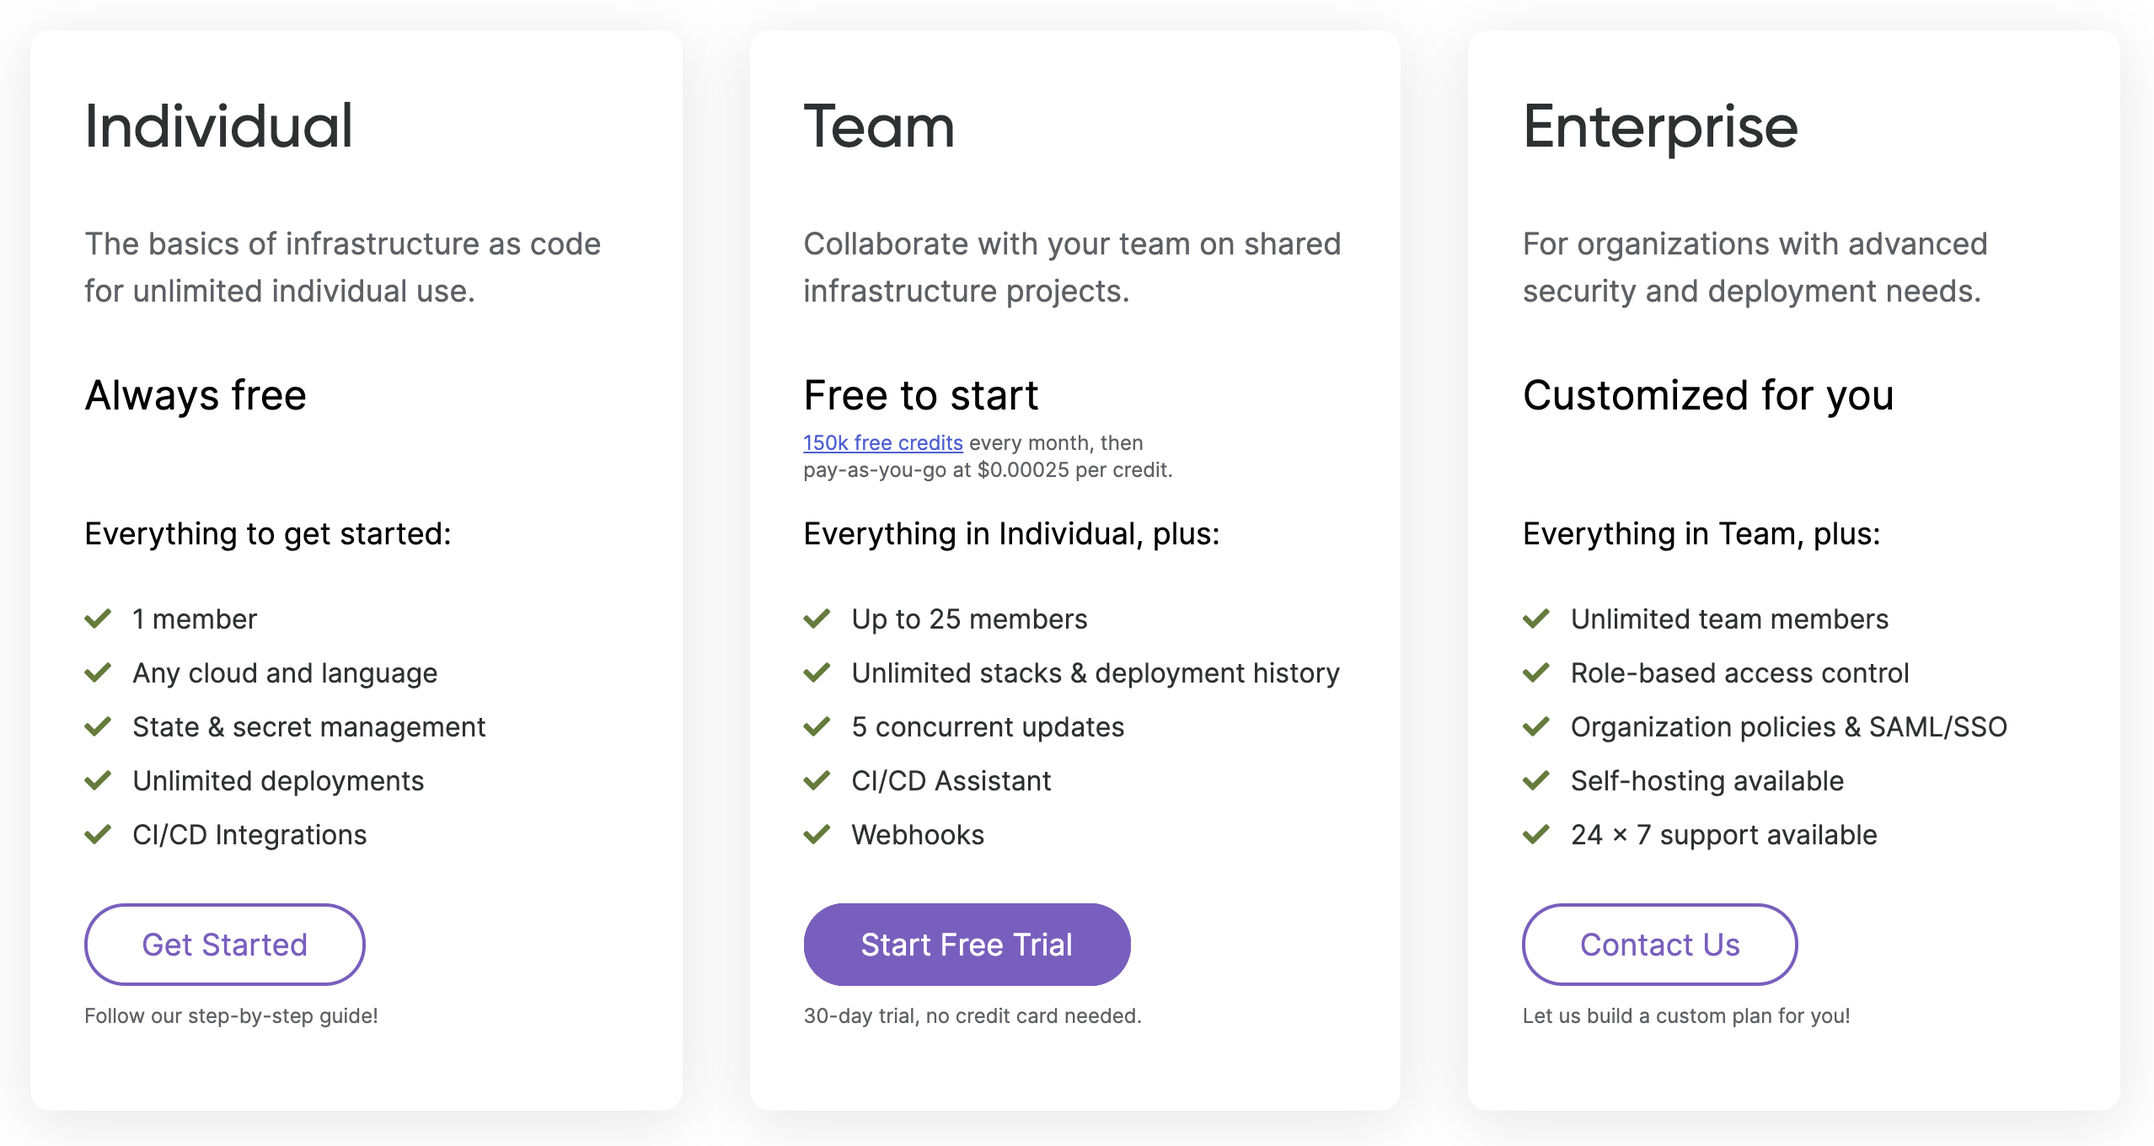
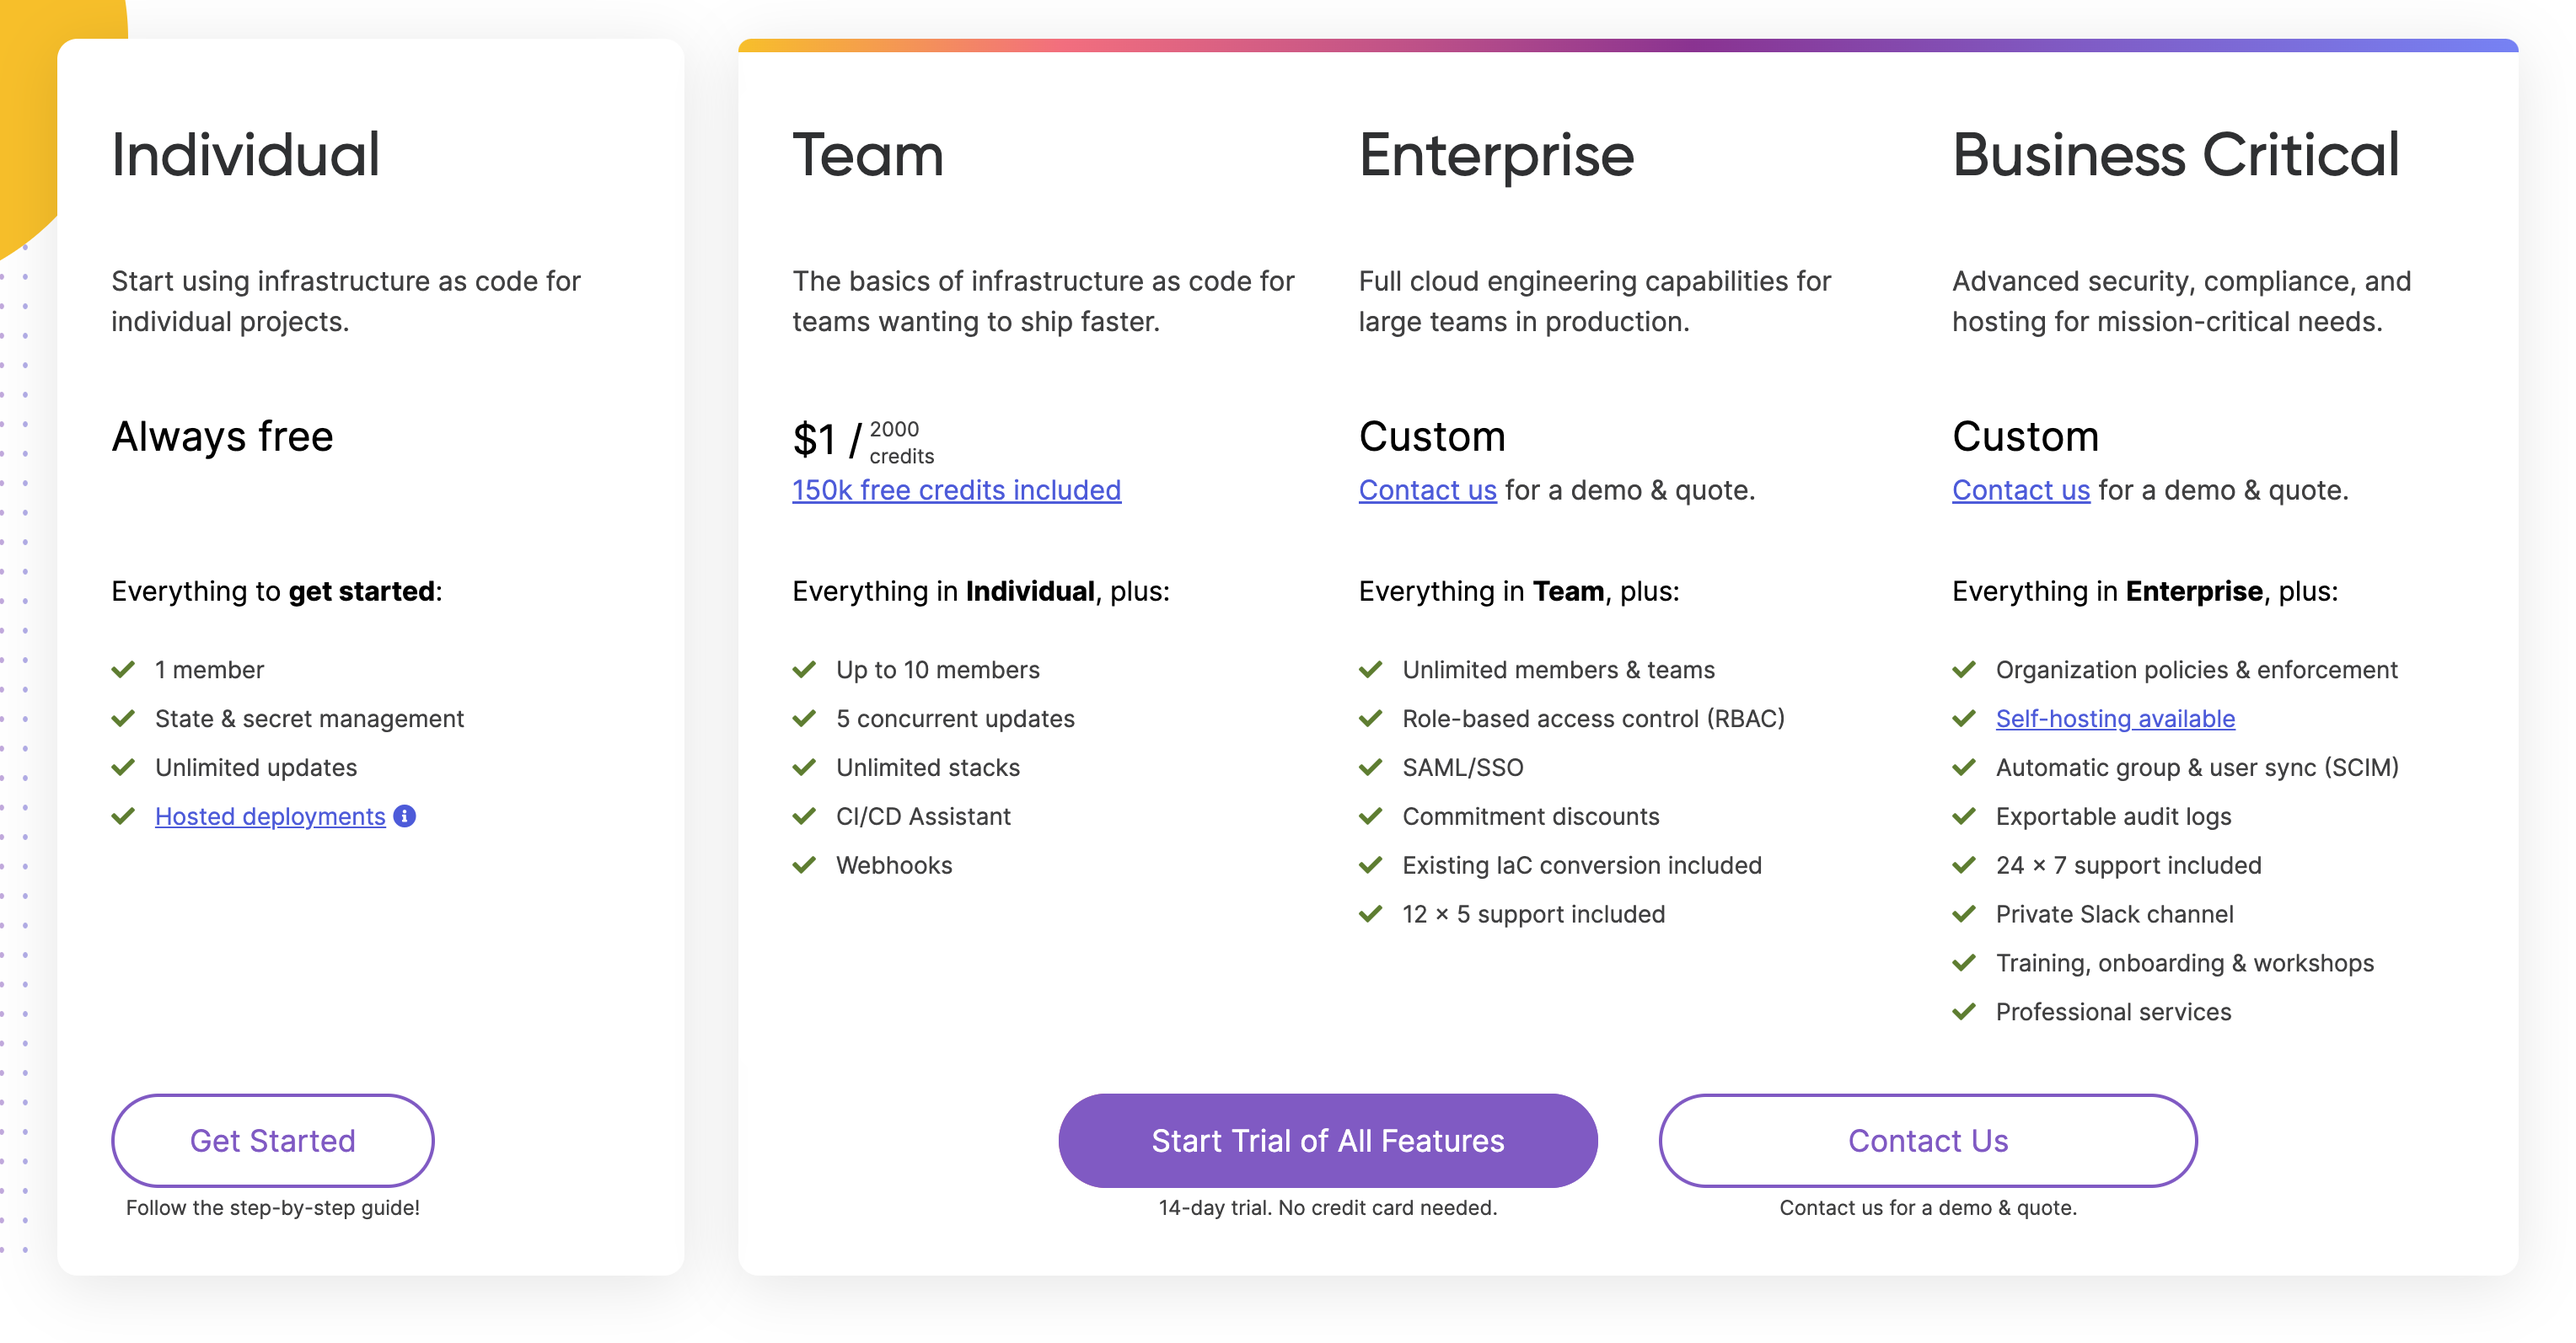
Update copy (#84)
* Update copy

* Update some more copy

* Update image

* few clean ups

* Update index.md

* Update themes/default/content/blog/announcing-new-usage-based-pricing-for-your-whole-team/index.md

* Update image

diff --git a/themes/default/layouts/page/pricing.html b/themes/default/layouts/page/pricing.html
@@ -146,10 +146,10 @@
 
                                     <div class="h-20">
                                         <div class="text-black text-2xl lg:text-xl xl:text-2xl flex items-center lg:whitespace-nowrap">
-                                            150k free credits /
-                                            <div class="m-0 text-xs mt-1 flex flex-col pl-1"><span>every</span><span>month</span></div>
+                                            $1 /
+                                            <div class="m-0 text-xs mt-1 flex flex-col pl-1"><span>2000</span><span>credits</span></div>
                                         </div>
-                                        <p class="m-0">Then <a class="underline" href="#faq-pricing">$0.00025/credit</a></p>
+                                        <p class="m-0"><a class="underline" href="#faq-pricing">150k free credits included</a></p>
                                     </div>
 
                                     <div class="flex-grow">
@@ -158,7 +158,7 @@
                                             <li>
                                                 <span>
                                                     <i class="fa fa-check pricing-checkmark mr-2"></i>
-                                                    <span>Up to 15 members</span>
+                                                    <span>Up to 10 members</span>
                                                 </span>
                                             </li>
                                             <li>
@@ -232,6 +232,12 @@
                                                 <span>
                                                     <i class="fa fa-check pricing-checkmark mr-2"></i>
                                                     <span>Commitment discounts</span>
+                                                </span>
+                                            </li>
+                                            <li>
+                                                <span>
+                                                    <i class="fa fa-check pricing-checkmark mr-2"></i>
+                                                    <span>Existing IaC conversion included</span>
                                                 </span>
                                             </li>
                                             <li>
@@ -413,7 +419,7 @@
 
                 <div class="accordion-item-body-no-animation text-base">
                     <p>
-                        A Pulumi Credit is the price for managing one resource for one hour. If using the Team Edition, each credit costs $0.00025. For billing purposes, we count
+                        A Pulumi Credit is the price for managing one resource for one hour. If using the Team Edition, each credit costs $0.0005. For billing purposes, we count
                         any resource that's declared in a Pulumi program. This includes
                         <a class="underline" href="{{ relref . " /docs/intro/concepts/resources#custom-resources" }}">provider resources</a> (e.g., an Amazon S3 bucket),
                         <a class="underline" href="{{ relref . " /docs/intro/concepts/resources#components" }}">component resources</a>
@@ -439,15 +445,15 @@
                     <p>
                         Hourly usage is measured in the number of Pulumi Credits, and you are billed one Pulumi Credit to manage one
                         <a class="underline" href="{{ relref . " /docs/intro/concepts/resources" }}">resource</a>
-                        for one hour. Each credit costs $0.00025 USD.
+                        for one hour. Each credit costs $0.0005 USD.
                     </p>
                     <p>
                         Each month you get 150,000 free Pulumi Credits (roughly 200 resources), so you only pay for the credits used beyond that amount in a given month. Free
                         credits do not roll over from month to month.
                     </p>
                     <p>
-                        Example: If you manage 625 resources with Pulumi every month, you will use 450,000 Pulumi Credits each month. Your monthly bill would be $75 USD = (450,000
-                        total credits - 150,000 free credits) * $0.00025.
+                        Example: If you manage 625 resources with Pulumi every month, you will use 450,000 Pulumi Credits each month. Your monthly bill would be $150 USD = (450,000
+                        total credits - 150,000 free credits) * $0.0005.
                     </p>
 
                     <img class="mt-16" src="/images/pricing/team-edition-cost.png" />
@@ -489,7 +495,7 @@
                         >
                         <ul>
                             <li>Estimated resources: 9</li>
-                            <li>Estimated monthly cost without applying free credits: $1.64 USD / 6,570 credits</li>
+                            <li>Estimated monthly cost without applying free credits: $3.28 USD / 6,570 credits</li>
                             <li>
                                 This scenario is a stack with an Amazon API Gateway, an AWS Lambda event handler, and associated IAM roles. View the
                                 <a class="underline" href="https://github.com/pulumi/examples/tree/master/aws-ts-apigatewayv2-http-api">code</a> for this scenario here.
@@ -500,7 +506,7 @@
                         <a class="underline" href="https://github.com/pulumi/examples/tree/master/aws-py-eks"><b>Amazon EKS running in a VPC</b></a>
                         <ul>
                             <li>Estimated resources: 20</li>
-                            <li>Estimated monthly cost without applying free credits: $3.65 USD / 14,600 credits</li>
+                            <li>Estimated monthly cost without applying free credits: $7.30 USD / 14,600 credits</li>
                             <li>
                                 This scenario is a stack with an Amazon VPC (including subnets, internet gateway, security groups, and route table), Amazon EKS cluster and node
                                 group, and associated IAM roles. View the <a class="underline" href="https://github.com/pulumi/examples/tree/master/aws-py-eks">code</a> for this
@@ -516,7 +522,7 @@
                         >
                         <ul>
                             <li>Estimated resources: 24</li>
-                            <li>Estimated monthly cost without applying free credits: $4.38 USD / 17,520 credits</li>
+                            <li>Estimated monthly cost without applying free credits: $8.76 USD / 17,520 credits</li>
                             <li>
                                 This scenario is a stack with an Amazon VPC (including subnets, security groups, and route table associations), Amazon ECS (including cluster and
                                 service, load balancer resources, and IAM resources), and Amazon RDS (including RDS instance and subnet group). Each group of resources (VPC, ECS,

diff --git a/themes/default/content/blog/announcing-new-usage-based-pricing-for-your-whole-team/index.md b/themes/default/content/blog/announcing-new-usage-based-pricing-for-your-whole-team/index.md
@@ -15,7 +15,7 @@ Today we are launching **Pulumi Team Edition**, a new way for teams to adopt and
 
 <!--more-->
 
-These new offerings replace the previous Pulumi Team Starter, Team Pro and Enterprise editions, which were priced based on the number of users who had access to deploy and manage infrastructure.  As we’ve worked with many customers to tackle their cloud modernization initiatives, we’ve heard consistently that teams would like to use infrastructure as code broadly across the organization.  This is a core goal of Cloud Engineering, which empowers every developer and infrastructure practitioner in the team to be hands-on with cloud infrastructure.  For some users, this might be every day, for others, it might be a couple times a month, but giving everyone in the organization access to manage their cloud infrastructure empowers organizations to move more quickly and collaborate more effectively.  This new pricing model was designed to make it easy to give Pulumi to the entire team.  Pulumi Team Edition supports up to 25 users, and Pulumi Enterprise Edition supports unlimited users.
+These new offerings replace the previous Pulumi Team Starter, Team Pro and Enterprise editions, which were priced based on the number of users who had access to deploy and manage infrastructure.  As we’ve worked with many customers to tackle their cloud modernization initiatives, we’ve heard consistently that teams would like to use infrastructure as code broadly across the organization.  This is a core goal of Cloud Engineering, which empowers every developer and infrastructure practitioner in the team to be hands-on with cloud infrastructure.  For some users, this might be every day, for others, it might be a couple times a month, but giving everyone in the organization access to manage their cloud infrastructure empowers organizations to move more quickly and collaborate more effectively.  This new pricing model was designed to make it easy to give Pulumi to the entire team.  Pulumi Team Edition supports up to 10 users, and Pulumi Enterprise Edition supports unlimited users.
 
 Pricing based on the number of resources under management means that price scales naturally with the cloud infrastructure complexity being tamed, and aligns well with how your infrastructure is purchased.  Pricing is based on Pulumi Credits, and a Pulumi Credit is one [cloud resource](/docs/intro/concepts/resources/) under management for one hour.
 
@@ -24,7 +24,7 @@ New customers can sign up for Pulumi Team Edition starting today.  Existing cust
 The net result is three Pulumi editions available now:
 
 * **Individual Edition**: our Community Edition is being rebranded but remains unchanged, and is free for unlimited individual use.
-* **Team Edition**: up to 25 members can collaborate on projects with unlimited deployments, unlimited stacks and unlimited update history. This plan includes 150k free Pulumi Credits per month, letting you manage up to 200 cloud resources for free every month. After that, additional Pulumi Credits cost only $0.00025 each.
+* **Team Edition**: up to 10 members can collaborate on projects with unlimited deployments, unlimited stacks and unlimited update history. This plan includes 150k free Pulumi Credits per month, letting you manage up to 200 cloud resources for free every month. After that, additional Pulumi Credits cost only $1 for every 2000 Credits.
 * **Enterprise Edition**: for large organizations that need unlimited users, unlimited teams, Role-Based Access Control, SAML/SSO, policy enforcement, audit logging, and 12x5 or 24x7 support for their production deployments.
 
 Full details of the new editions are available on our [pricing page](/pricing/).
